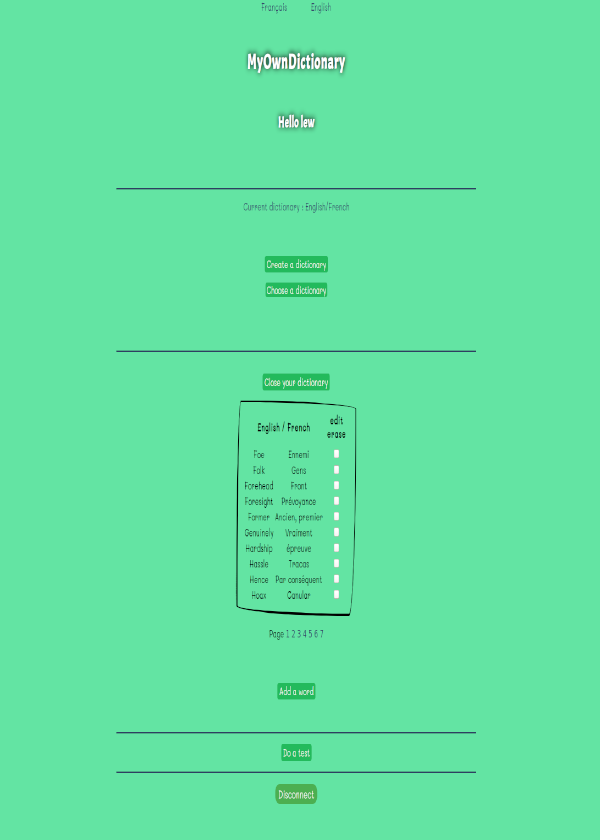
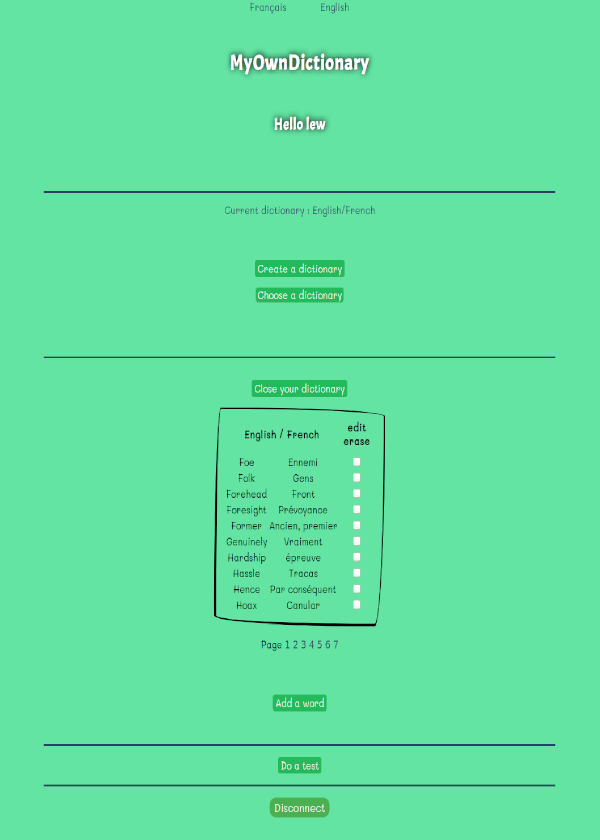
responsive ok

diff --git a/projects.html b/projects.html
@@ -5,7 +5,10 @@
     <meta name="viewport" content="width=device-width, initial-scale=1, shrink-to-fit=no">
     <link rel="stylesheet" href="https://stackpath.bootstrapcdn.com/bootstrap/4.4.1/css/bootstrap.min.css" integrity="sha384-Vkoo8x4CGsO3+Hhxv8T/Q5PaXtkKtu6ug5TOeNV6gBiFeWPGFN9MuhOf23Q9Ifjh" crossorigin="anonymous">
     <link rel="stylesheet" href="style.css" />
-    <link rel="stylesheet" media="screen and (max-width: 480px)" href="styleSmallScreen.css" />
+    <link rel="stylesheet" media="screen and (max-width: 1024px)" href="style_XL_Screen.css" />
+    <link rel="stylesheet" media="screen and (max-width: 800px)" href="style_L_Screen.css" />
+    <link rel="stylesheet" media="screen and (max-width: 640px)" href="style_M_Screen.css" />
+    <link rel="stylesheet" media="screen and (max-width: 480px)" href="style_S_Screen.css" />
     <script type="text/javascript" src="http://livejs.com/live.js"></script>
      <link href="https://fonts.googleapis.com/css?family=Ubuntu&display=swap" rel="stylesheet">
     <title>MyPage</title>
@@ -26,10 +29,12 @@
       <h1 id="projects_title">Projects</h1>
 
       <div class="projets">
-        <picture class="p_img">
-          <source media="(max-width: 480px)" srcset="">
-            <img src="media/hangman2.png" alt="website_screen_capture">
-        </picture>
+        <div class="p_img_div">
+          <picture>
+              <source srcset="" media="">
+              <img class="p_img" src="media/hangman2.png" alt="website_screen_capture">
+          </picture>
+        </div>
         <div class="p_descr">
             <h2>React mini-projects</h2>
             <a href="https://jonatanbzk.github.io/hangman/">github.io/hangman/</a> <br>
@@ -41,10 +46,12 @@
       </div>
 
       <div class="projets">
-        <picture class="p_img">
-          <source media="(max-width: 480px)" srcset="">
-            <img src="media/myowndictionary_m.png" alt="website_screen_capture">
-        </picture>
+        <div class="p_img_div">
+          <picture>
+              <source srcset="" media="">
+              <img class="p_img" src="media/myowndictionary_m.png" alt="website_screen_capture">
+          </picture>
+        </div>
         <div class="p_descr">
             <h2>MyOwnDictionary</h2>
             <a href="http://rbmk.fr/">www.rbmk.fr</a> <br>
@@ -59,16 +66,18 @@
       </div>
 
       <div class="projets">
-        <picture class="p_img">
-          <source media="(max-width: 480px)" srcset="">
-            <img src="media/nursing.png" alt="website_screen_capture">
-        </picture>
+        <div class="p_img_div">
+          <picture>
+              <source srcset="" media="">
+              <img class="p_img" src="media/nursing.png" alt="website_screen_capture">
+          </picture>
+        </div>
         <div class="p_descr">
             <h2>Nursing office landing page</h2>
             <a href="http://www.cabinet-infirmier-lesarcs.fr/">cabinet-infirmier-lesarcs.fr</a>
             <p class="p_text">Nursing office responsive one-page website.
               <br>
-              As my first project, I decided to not use any library. I designed the website, coded it. I also managed the hosting part using OVH, add google analytics and managing the SEO. </p>
+              No library used. I designed the website and built it. I also managed the hosting part using OVH, add Google analytics and,  manage the SEO. </p>
         </div>
       </div>
 

diff --git a/index.html b/index.html
@@ -5,7 +5,10 @@
     <meta name="viewport" content="width=device-width, initial-scale=1, shrink-to-fit=no">
     <link rel="stylesheet" href="https://stackpath.bootstrapcdn.com/bootstrap/4.4.1/css/bootstrap.min.css" integrity="sha384-Vkoo8x4CGsO3+Hhxv8T/Q5PaXtkKtu6ug5TOeNV6gBiFeWPGFN9MuhOf23Q9Ifjh" crossorigin="anonymous">
     <link rel="stylesheet" href="style.css" />
-    <link rel="stylesheet" media="screen and (max-width: 800px)" href="styleSmallScreen.css" />
+    <link rel="stylesheet" media="screen and (max-width: 1024px)" href="style_XL_Screen.css" />
+    <link rel="stylesheet" media="screen and (max-width: 800px)" href="style_L_Screen.css" />
+    <link rel="stylesheet" media="screen and (max-width: 640px)" href="style_M_Screen.css" />
+    <link rel="stylesheet" media="screen and (max-width: 480px)" href="style_S_Screen.css" />
     <script type="text/javascript" src="http://livejs.com/live.js"></script>
      <link href="https://fonts.googleapis.com/css?family=Ubuntu&display=swap" rel="stylesheet">
     <title>MyPage</title>
@@ -23,10 +26,12 @@
       </div>
     </nav>
     <div id="main_idx">
-      <picture>
-        <source media="(max-width: 480px)" srcset="media/meSHsmall.png">
-          <img src="media/meSH.png" alt="man_picture">
-      </picture>
+      <div id="idx_img">
+        <picture>
+          <source media="" srcset="">
+            <img id="my_img" src="media/meSH.png" alt="man_picture">
+          </picture>
+      </div>
       <div id="textBloc">
         <h1>Jonatan Buzek</h1>
         <br>

diff --git a/style.css b/style.css
@@ -24,6 +24,7 @@ html, body {
   flex-direction: row;
   justify-content: end;
   font-size: 1.2em;
+  font-weight: bold;
 }
 
 .nav-item {
@@ -38,10 +39,13 @@ nav {
 
 /* Index page */
 #main_idx {
+  width: 70%;
+  height: auto;
+  margin: auto;
   display: flex;
   justify-content: space-around;
   text-align: justify;
-  padding: 1em;
+  padding: 1rem;
 }
 
 h1 {
@@ -50,17 +54,31 @@ h1 {
   color: #86a6ae;
 }
 
-picture {
+#idx_img {
   display: flex;
   justify-content: center;
   max-height: 90%;
+  width: 30%;
   align-items: center;
 }
 
+#my_img {
+  max-width: 85%;
+  height: auto;
+}
+
+#textBloc {
+  width: 70%;
+  display: flex;
+  flex-direction: column;
+}
+
 #aboutMeTxt {
+  width: 80%;
+  height: auto;
   margin-bottom: 2em;
+  margin-left: 4em;
   padding: 1em;
-  width: 25em;
 }
 
 a {
@@ -125,14 +143,20 @@ h2 {
   font-size: 1.5em;
 }
 
-.p_img {
+.p_img_div {
   width: 30%;
+  height: auto;
   margin-left: 2em;
+  max-height: 100%;
+}
+
+.p_img {
+  max-width: 80%;
+  height: auto;
 }
 
 .p_descr {
   width: 70%;
-  padding-left: 4em;
 }
 
 .p_text {

diff --git a/style_S_Screen.css b/style_S_Screen.css
@@ -1,0 +1,76 @@
+.navbar-nav {
+  display: flex;
+  flex-direction: row;
+  justify-content: space-around;
+  margin: 0 auto;
+}
+
+#main_idx {
+  width: 100%;
+  display: flex;
+  justify-content: center;
+  flex-direction: column;
+  max-width: 100vh;
+}
+
+#idx_img {
+  margin-bottom: 0;
+  min-width: 130px;
+  height: auto;
+}
+
+#my_img {
+  max-width: 100%;
+  height: auto;
+}
+
+#textBloc {
+  padding-top: 1em;
+  padding-bottom: 1em;
+  padding-left: 0;
+  padding-right: 0;
+  margin-top: 0;
+}
+
+#aboutMeTxt {
+  width: 100%;
+  height: auto;
+  margin: 0;
+  padding: 0;
+  padding-top: 1em;
+}
+
+#main_projects h1 {
+  margin-top: 0.2em;
+}
+
+/* project */
+
+#main_projects h1 {
+  margin-top: 0.5em;
+  margin-bottom: 0.5em;
+}
+
+.projets {
+  display: flex;
+  flex-direction: column-reverse;
+  padding: 0;
+  padding-top: 1em;
+  padding-bottom: 1em;
+}
+
+.p_descr {
+  margin: auto;
+  width: 100%;
+}
+
+.p_text {
+padding: 1em;
+margin-bottom: 0;
+}
+
+.p_img_div {
+  width: 30%;
+  height: auto;
+  margin: auto;
+}

diff --git a/style_L_Screen.css b/style_L_Screen.css
@@ -1,0 +1,23 @@
+/* Index page */
+#main_idx {
+  width: 90%;
+  flex-direction: column;
+  justify-content: flex-start;
+}
+
+#textBloc, #idx_img {
+  margin-left: auto;
+  margin-right: auto;
+}
+
+#idx_img, #textBloc, #aboutMeTxt {
+  margin-top: 1em;
+}
+
+#idx_img {
+  margin-bottom: 4em;
+}
+
+#textBloc {
+  width: 90%;
+}

diff --git a/style_XL_Screen.css b/style_XL_Screen.css
@@ -1,0 +1,9 @@
+#main_projects {
+  width: 90%;
+}
+
+.p_text {
+  padding-top: 1em;
+  padding-left: 3em;
+  padding-right: 1em;
+}

diff --git a/style_M_Screen.css b/style_M_Screen.css
@@ -1,0 +1,8 @@
+#idx_img {
+  margin-bottom: 1em;
+}
+
+.p_text {
+  padding-left: 2em;
+  padding-right: 2em;
+}
